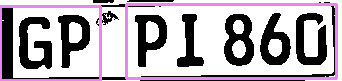
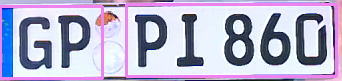
color changes

diff --git a/src/license_plate_recognition/scripts/final/ocr_licence_plate.py b/src/license_plate_recognition/scripts/final/ocr_licence_plate.py
@@ -41,13 +41,13 @@ def read_text(images):
         if image is None:
             print(f"Error: Unable to read the image {file}. Skipping.")
             continue
-
+        image = cv2.imread(file)
         # Process the image for OCR
-        processed_image = process_image(image)
+        #processed_image = process_image(image)
 
         # Perform OCR using EasyOCR
-        result = reader.readtext(processed_image)
-        image = cv2.cvtColor(processed_image, cv2.COLOR_GRAY2BGR)
+        result = reader.readtext(image)
+        #image = cv2.cvtColor(image, cv2.COLOR_GRAY2BGR)
 
         # Draw bounding boxes and text on the original image
         for (bbox, text, prob) in result:
